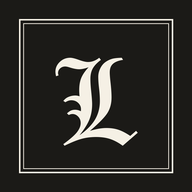
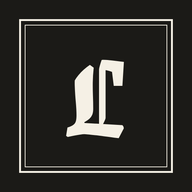
Masthead in Grenze Gotisch so the y in Frosty reads as a y
UnifrakturMaguntia's Fraktur y looked like an eng. Grenze Gotisch keeps the
blackletter newspaper look with legible lowercase; the link-preview card and
app icons are redrawn in the same face.

Changed region(s): [[0.0938, 0.0938, 0.9062, 0.9062], [0.2812, 0.2812, 0.7188, 0.7812]]

diff --git a/build_paper.py b/build_paper.py
@@ -898,7 +898,7 @@ def subs_html(subs, today):
 
 
 FONTS = ("https://fonts.googleapis.com/css2?family=Libre+Franklin:wght@400;500;600;700&family=Newsreader:"
-         "ital,opsz,wght@0,6..72,400;0,6..72,500;0,6..72,600;0,6..72,700;1,6..72,400&family=UnifrakturMaguntia"
+         "ital,opsz,wght@0,6..72,400;0,6..72,500;0,6..72,600;0,6..72,700;1,6..72,400&family=Grenze+Gotisch:wght@700"
          "&display=swap")
 
 
@@ -1137,7 +1137,7 @@ CSS = r"""
 :root{--bg:#f5f0e5;--paper:#fbf8f1;--ink:#1b1a17;--ink2:#3a3731;--muted:#6d675c;--hair:#d8cfbc;--rule:#1b1a17;
 --accent:#9c2b1f;--up:#1c6f45;--down:#ad2a1e;--lock:#86661a;--visited:#7a7468;--wash:rgba(27,26,23,.055);
 --serif:"Newsreader",Georgia,"Times New Roman",serif;--sans:"Libre Franklin","Segoe UI",system-ui,sans-serif;
---black:"UnifrakturMaguntia","Old English Text MT",Georgia,serif;color-scheme:light}
+--black:"Grenze Gotisch","Old English Text MT",Georgia,serif;color-scheme:light}
 @media (prefers-color-scheme:dark){:root:not([data-theme="light"]){--bg:#151412;--paper:#1d1c19;--ink:#ece7dc;
 --ink2:#cfc8ba;--muted:#9c9588;--hair:#36332d;--rule:#d9d3c6;--accent:#e58474;--up:#5fc28f;--down:#f08070;
 --lock:#d6b15a;--visited:#8d877b;--wash:rgba(236,231,220,.07);color-scheme:dark}}
@@ -1162,7 +1162,7 @@ a:focus-visible,button:focus-visible,input:focus-visible{outline:2px solid var(-
 .mast{text-align:center;padding-top:14px}
 .mast-top{display:flex;flex-wrap:wrap;justify-content:space-between;gap:4px 16px;font:500 11px/1.4 var(--sans);
 letter-spacing:.09em;text-transform:uppercase;color:var(--muted);border-bottom:1px solid var(--hair);padding-bottom:8px}
-.nameplate{font-family:var(--black);font-weight:400;font-size:clamp(44px,9.5vw,112px);line-height:1.02;margin:14px 0 2px}
+.nameplate{font-family:var(--black);font-weight:700;font-size:clamp(44px,9.5vw,112px);line-height:1.02;margin:14px 0 .12em;letter-spacing:.005em}
 .nameplate.small{font-size:clamp(40px,7vw,72px)}
 .nameplate a{text-decoration:none}
 .motto{font-style:italic;color:var(--ink2);margin:0 0 12px;font-size:15.5px}
